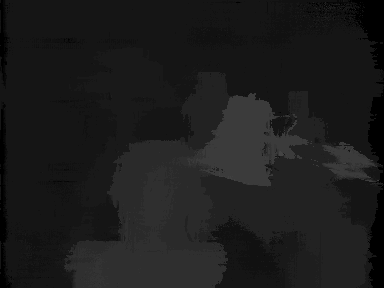
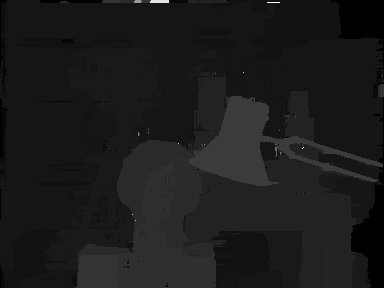
New Year wishes comes true
- cost aggregation is fixed.

diff --git a/stereo_matching/main.cpp b/stereo_matching/main.cpp
@@ -394,17 +394,14 @@ int main()
    clSetKernelArg(asw_vaggregation_kernel, 1, sizeof(cl_mem), &inputImage_r);
    clSetKernelArg(asw_vaggregation_kernel, 2, sizeof(cl_mem), temp);
    clSetKernelArg(asw_vaggregation_kernel, 3, sizeof(cl_mem), &asw_denom);
-   clSetKernelArg(asw_vaggregation_kernel, 4, sizeof(cl_mem), &asw_initcost);
-   clSetKernelArg(asw_vaggregation_kernel, 5, sizeof(cl_mem), &asw_cost_buffer[0]);
+   clSetKernelArg(asw_vaggregation_kernel, 4, sizeof(cl_mem), &asw_cost_buffer[0]);
    ErCheck(clEnqueueNDRangeKernel(queue, asw_vaggregation_kernel, 3, nullptr, asw_cost_size, nullptr, 1, &event_aggr, &event_vaggr));
 
    clSetKernelArg(asw_haggregation_kernel, 0, sizeof(cl_mem), &inputImage_l);
    clSetKernelArg(asw_haggregation_kernel, 1, sizeof(cl_mem), &inputImage_r);
-   clSetKernelArg(asw_haggregation_kernel, 2, sizeof(cl_mem), temp);
-   clSetKernelArg(asw_haggregation_kernel, 3, sizeof(cl_mem), &asw_initcost);
-   clSetKernelArg(asw_haggregation_kernel, 4, sizeof(cl_mem), &asw_cost_buffer[0]);
-   clSetKernelArg(asw_haggregation_kernel, 5, sizeof(cl_mem), &asw_denom);
-   clSetKernelArg(asw_haggregation_kernel, 6, sizeof(cl_mem), &asw_cost_buffer[1]);
+   clSetKernelArg(asw_haggregation_kernel, 2, sizeof(cl_mem), &asw_cost_buffer[0]);
+   clSetKernelArg(asw_haggregation_kernel, 3, sizeof(cl_mem), &asw_denom);
+   clSetKernelArg(asw_haggregation_kernel, 4, sizeof(cl_mem), &asw_cost_buffer[1]);
    ErCheck(clEnqueueNDRangeKernel(queue, asw_haggregation_kernel, 3, nullptr, asw_cost_size, nullptr, 1, &event_vaggr, &event_haggr));
 
    //this part is just for testing purposes and will be put outside 'for'
